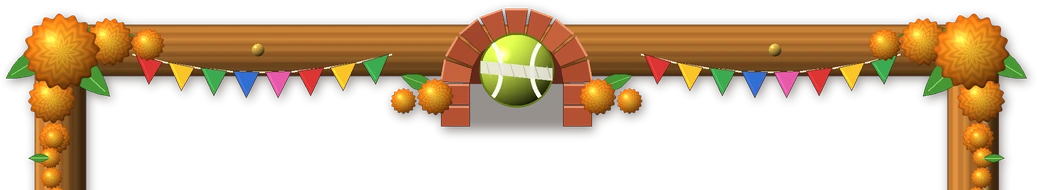
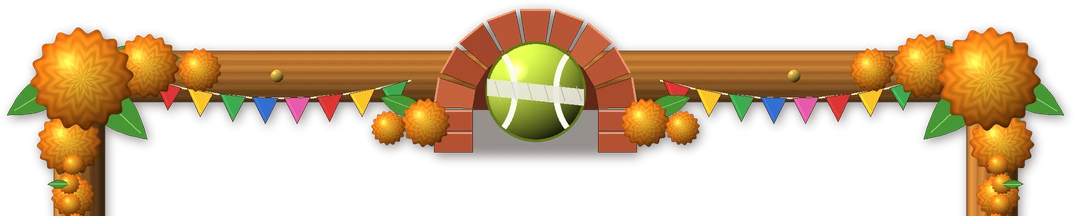
Gully code border: bigger clusters, topper and plaque
Claude-Session: https://claude.ai/code/session_01EnXvJ6P6HcGRxjBSnYPdAU

diff --git a/www/assets/v22.js b/www/assets/v22.js
@@ -70,7 +70,7 @@
 
   // ── 2. FINALS: a full league bar unlocks that league's Final; winning it lifts the cup and opens the next league
   const kfmt = n => n >= 1000 ? (Math.round(n / 100) / 10).toString().replace(/\.0$/, '') + 'K' : fmt(n);
-  const FRAMES = new Set([1]), BADGES = new Set([...Array(27).keys()].map(i => i + 1)), FDIM = { 5: [0.25, 0.2214], 7: [0.3271, 0.24], 8: [0.4686, 0.3886], 2: [0.3814, 0.3329], 3: [0.3471, 0.3629], 4: [0.3257, 0.3529], 1: [0.1832, 0.188], 6: [0.289, 0.2475], 16: [0.2241, 0.2241], 18: [0.2, 0.1834], 21: [0.228, 0.2052] };
+  const FRAMES = new Set([1]), BADGES = new Set([...Array(27).keys()].map(i => i + 1)), FDIM = { 5: [0.25, 0.2214], 7: [0.3271, 0.24], 8: [0.4686, 0.3886], 2: [0.3814, 0.3329], 3: [0.3471, 0.3629], 4: [0.3257, 0.3529], 1: [0.2009, 0.2009], 6: [0.289, 0.2475], 16: [0.2241, 0.2241], 18: [0.2, 0.1834], 21: [0.228, 0.2052] };
   function F() { const f = sec('finals'); if (!f.won) { f.won = {}; f.ready = {}; const hi = highestLeagueIdx(); for (let i = 1; i < hi; i++) f.won[i] = 1; save(); } return f; }
   const finalWon = i => !!F().won[i], finalReady = i => !!F().ready[i] && !F().won[i];
   const cupsWon = () => Object.keys(F().won).filter(k => +k >= 1).length;
@@ -401,7 +401,7 @@
   .tcard .lockx.st.open .chn img.padb,.lockx.st.open img.padb{animation:none!important}
   .v2pz2 .g:not(.f){flex:0 0 40%!important}.v2pz2 .g:not(.f) .row{gap:4px;justify-content:space-around}.v2pz2 .g:not(.f) .row span{font-size:11.5px;letter-spacing:-.2px}.v2pz2 .g.f .row{gap:3px}.v2pz2 .g.f .row span{font-size:11.5px;letter-spacing:-.2px}
   .tcard.pt.tf:not([data-lg="6"]):not([data-lg="16"])::before{border-radius:28px}.tcard.pt.tf::after{z-index:40!important;pointer-events:none;--cw:calc(100cqw + 2 * var(--pad,22px));--fw:calc(var(--cw) * (1 + 2 * var(--fside,0)));left:calc(var(--cw) * var(--fside,0) * -1);right:calc(var(--cw) * var(--fside,0) * -1)}
-  .tcard.pt.tf[data-lg="1"]{--hl:0.0829;--hr:0.9132;--ht:0.0733;--hb:0.0781}.tcard.pt.tf[data-lg="2"]{--hl:0.1329;--hr:0.8671;--ht:0.2629;--hb:0.2143}.tcard.pt.tf[data-lg="3"]{--hl:0.1014;--hr:0.9;--ht:0.2329;--hb:0.1557}.tcard.pt.tf[data-lg="4"]{--hl:0.1171;--hr:0.8814;--ht:0.2686;--hb:0.0929}.tcard.pt.tf[data-lg="5"]{--hl:0.0943;--hr:0.9057;--ht:0.1657;--hb:0.1314}.tcard.pt.tf[data-lg="6"]{--hl:0.088;--hr:0.912;--ht:0.2442;--hb:0.1346}.tcard.pt.tf[data-lg="7"]{--hl:0.1543;--hr:0.8443;--ht:0.2;--hb:0.1571}.tcard.pt.tf[data-lg="8"]{--hl:0.1557;--hr:0.8457;--ht:0.2514;--hb:0.1729}.tcard.pt.tf[data-lg="16"]{--hl:0.0833;--hr:0.9195;--ht:0.1609;--hb:0.1106}.tcard.pt.tf[data-lg="18"]{--hl:0.0539;--hr:0.9461;--ht:0.0705;--hb:0.0539}.tcard.pt.tf[data-lg="21"]{--hl:0.0539;--hr:0.9461;--ht:0.0984;--hb:0.0756}.tcard.pt.tf::after{--tw:calc(100cqw + 2 * var(--pad,22px));--fw:calc(var(--tw) / (var(--hr) - var(--hl)));left:calc(0px - var(--fw) * var(--hl))!important;right:auto!important;width:var(--fw)!important;top:calc(0px - var(--fw) * var(--ht))!important;bottom:calc(0px - var(--fw) * var(--hb))!important;z-index:40!important;pointer-events:none}
+  .tcard.pt.tf[data-lg="1"]{--hl:0.0977;--hr:0.8986;--ht:0.0949;--hb:0.0949}.tcard.pt.tf[data-lg="2"]{--hl:0.1329;--hr:0.8671;--ht:0.2629;--hb:0.2143}.tcard.pt.tf[data-lg="3"]{--hl:0.1014;--hr:0.9;--ht:0.2329;--hb:0.1557}.tcard.pt.tf[data-lg="4"]{--hl:0.1171;--hr:0.8814;--ht:0.2686;--hb:0.0929}.tcard.pt.tf[data-lg="5"]{--hl:0.0943;--hr:0.9057;--ht:0.1657;--hb:0.1314}.tcard.pt.tf[data-lg="6"]{--hl:0.088;--hr:0.912;--ht:0.2442;--hb:0.1346}.tcard.pt.tf[data-lg="7"]{--hl:0.1543;--hr:0.8443;--ht:0.2;--hb:0.1571}.tcard.pt.tf[data-lg="8"]{--hl:0.1557;--hr:0.8457;--ht:0.2514;--hb:0.1729}.tcard.pt.tf[data-lg="16"]{--hl:0.0833;--hr:0.9195;--ht:0.1609;--hb:0.1106}.tcard.pt.tf[data-lg="18"]{--hl:0.0539;--hr:0.9461;--ht:0.0705;--hb:0.0539}.tcard.pt.tf[data-lg="21"]{--hl:0.0539;--hr:0.9461;--ht:0.0984;--hb:0.0756}.tcard.pt.tf::after{--tw:calc(100cqw + 2 * var(--pad,22px));--fw:calc(var(--tw) / (var(--hr) - var(--hl)));left:calc(0px - var(--fw) * var(--hl))!important;right:auto!important;width:var(--fw)!important;top:calc(0px - var(--fw) * var(--ht))!important;bottom:calc(0px - var(--fw) * var(--hb))!important;z-index:40!important;pointer-events:none}
   #v2deck .v2rail{gap:90px!important}
   .tcard.pt:not(.tf)::after{border:0!important;border-image:none!important}
   .tcard.pt.tf::before{inset:0!important;border-radius:4px!important}
